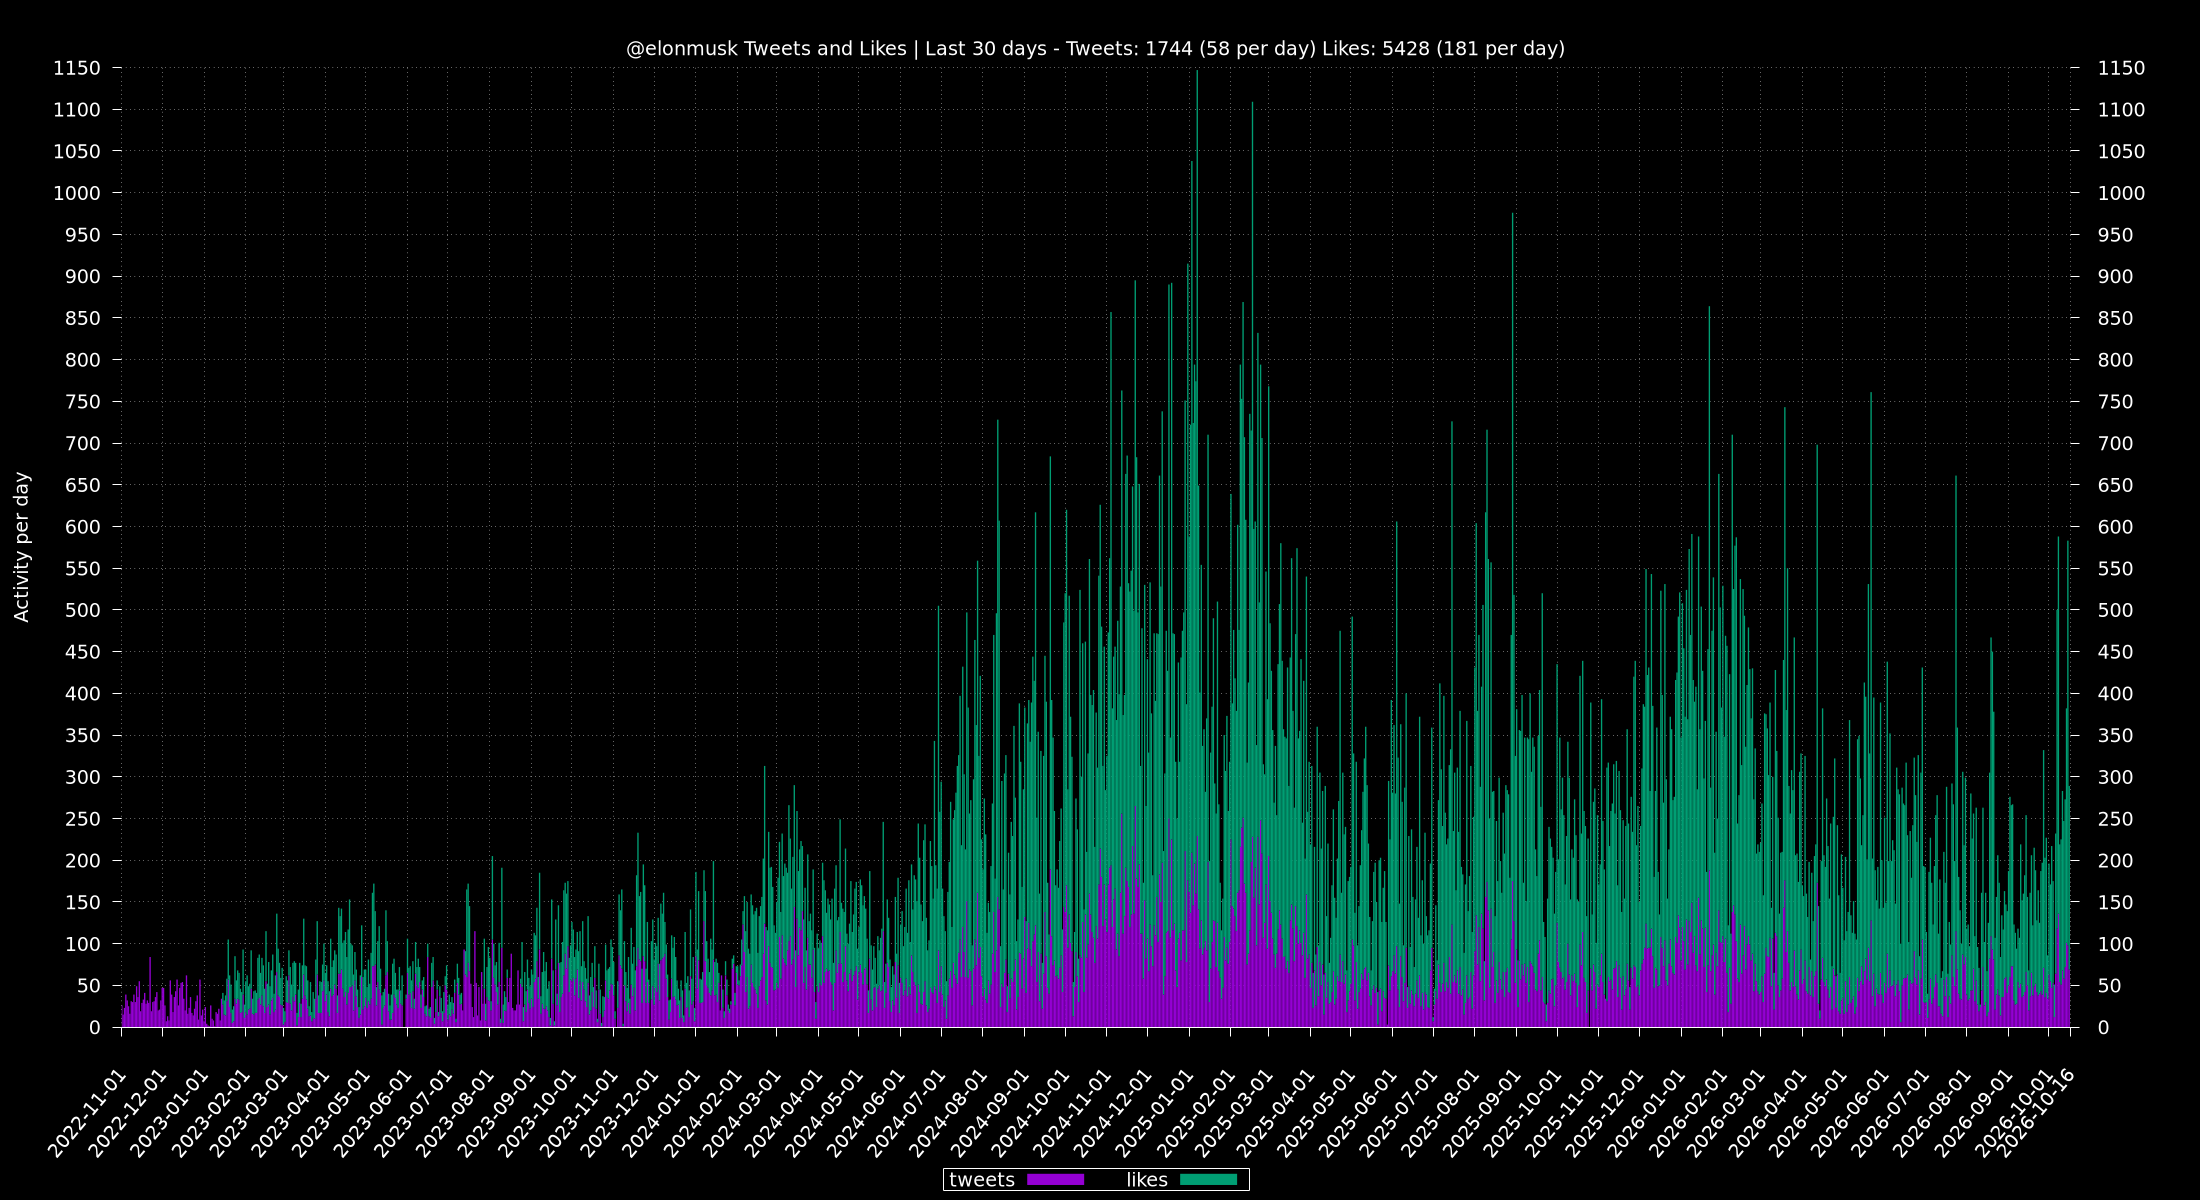
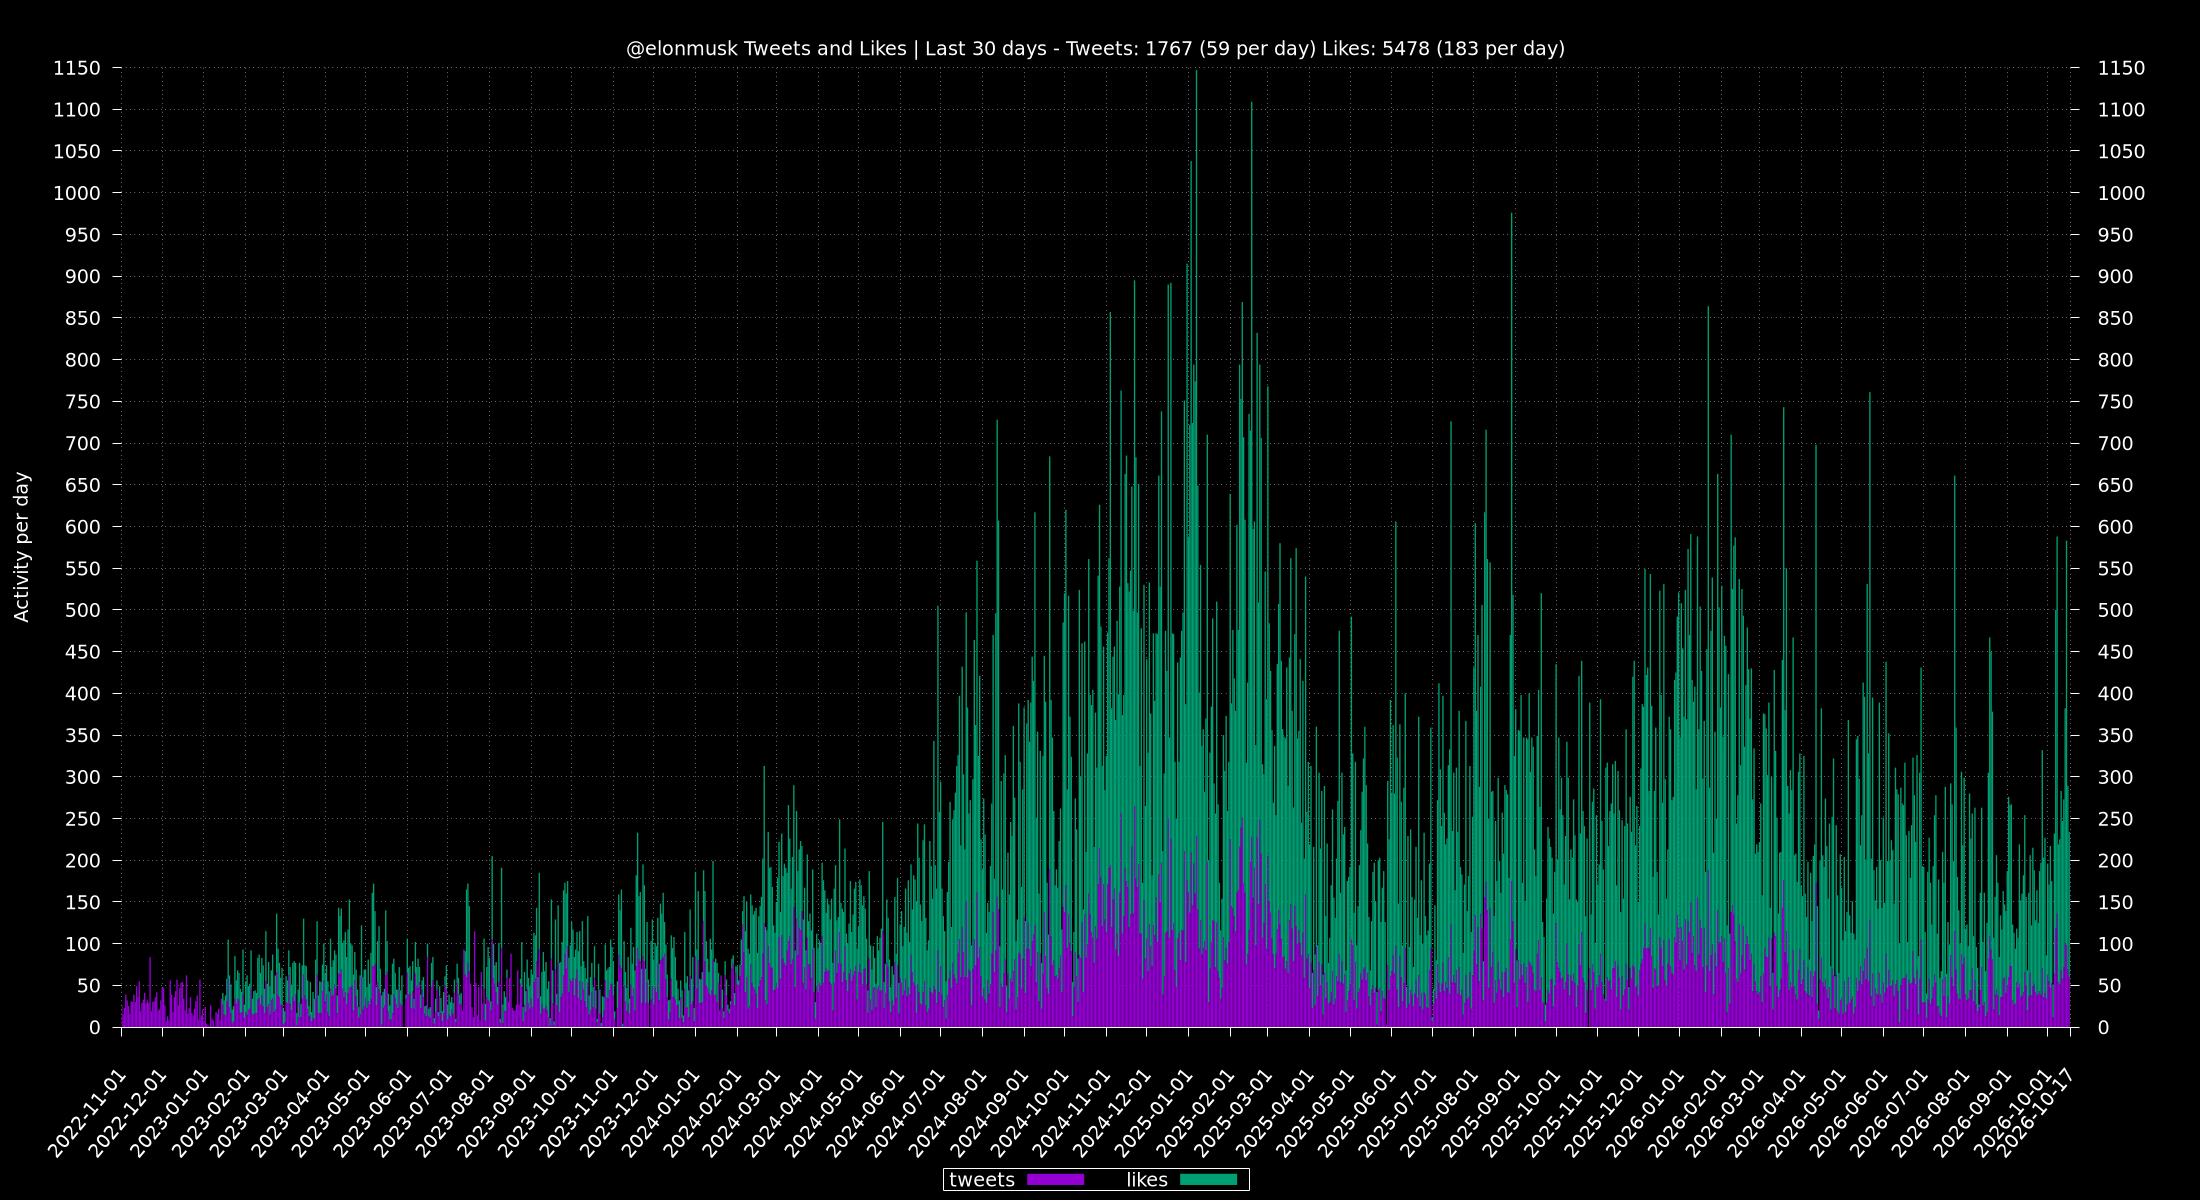
update via cron

Changed region(s): [[0.1545, 0.2158, 0.9582, 0.8633], [0.1236, 0.8942, 0.9273, 0.9558], [0.5255, 0.0308, 0.5564, 0.0617]]

diff --git a/totals/README.md b/totals/README.md
@@ -1,6 +1,6 @@
 ## Last 30 Days
-Tweets: 1744 (58 per day)\
-Likes: 5428 (181 per day)
+Tweets: 1767 (59 per day)\
+Likes: 5478 (183 per day)
 
 ## 24 Hours
 Max: [**341**](../misc/most-tweets_24-hr.csv) - From `2024-11-23 14:29:53 CST` To `2024-11-24 14:28:44 CST`
